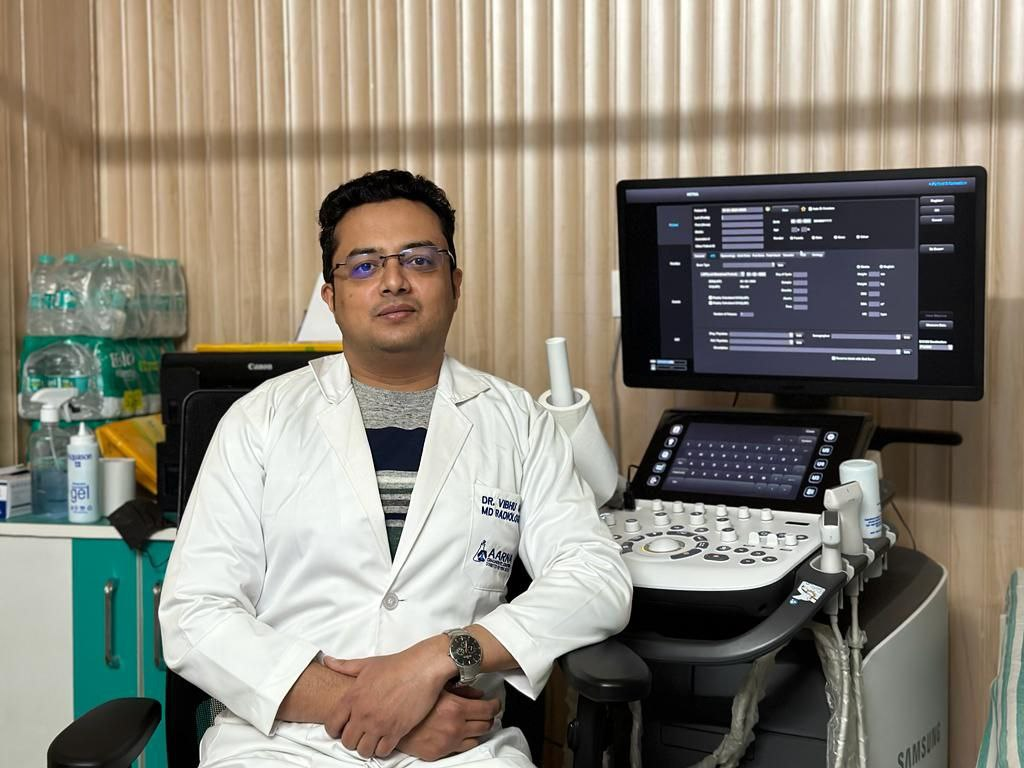
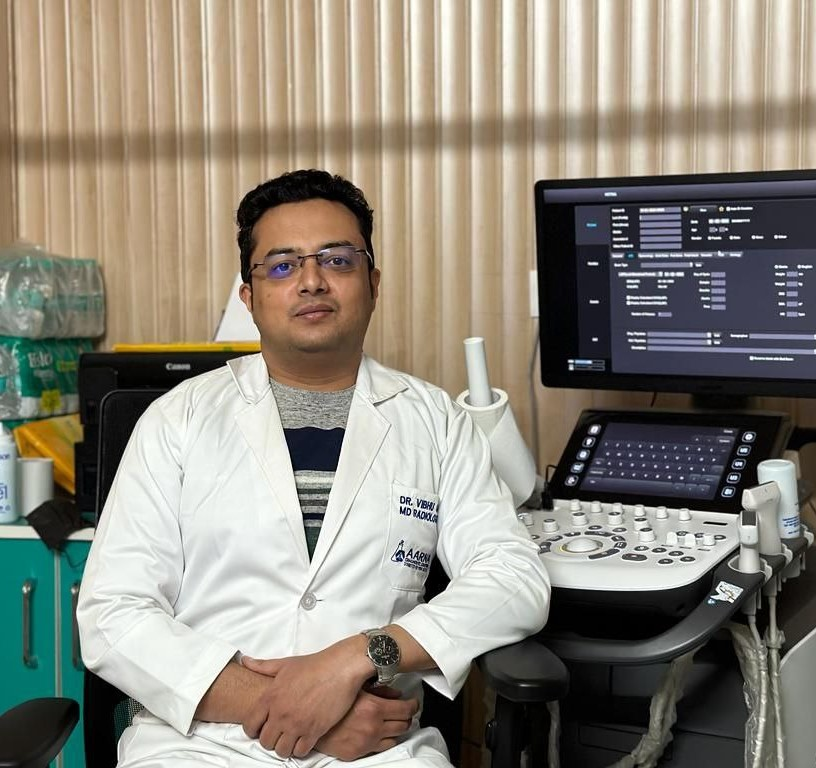
fixed doc card width

diff --git a/src/components/doctors/Doctors.js b/src/components/doctors/Doctors.js
@@ -6,7 +6,7 @@ import content from "./doc_data";
 export default function DoctorsInfo() {
   return (
     <div className="pt-20 px-28">
-      <h1 className="text-center mb-20 text-5xl font-bold text-black">
+      <h1 className="text-center mb-20 text-5xl font-bold text-[#1a0e69]">
         Our Doctors
       </h1>
 
@@ -20,7 +20,7 @@ export default function DoctorsInfo() {
                     <img
                       src={item.src}
                       alt={item.id}
-                      className="h-32 sm:h-64 md:h-96 w-full"
+                      className="h-40 sm:h-64 md:h-96 w-96"
                     />
                   </a>
                 </div>
